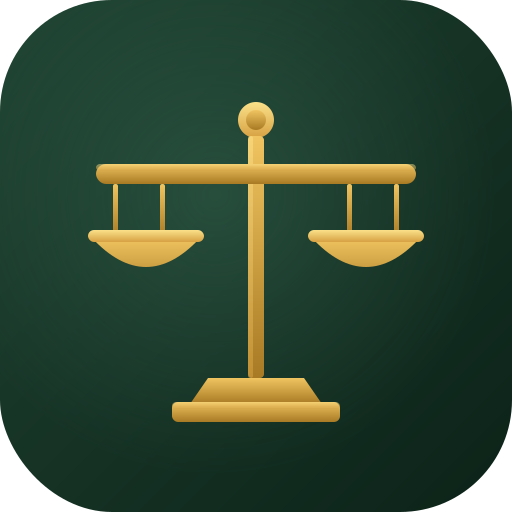
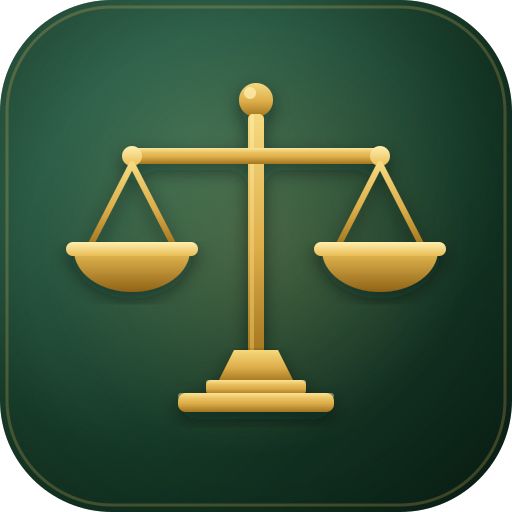
美化法律工具图标：重绘天平造型，增强金属质感与背景层次
- 挂链改为经典 V 形，秤盘加深为碗形，底座改为阶梯式，整体比例更协调
- 金色改为三段渐变增强金属感，梁端加装饰圆球
- 背景增加环境光、金色辉光与暗角，圆角版内侧加金色细边
- 新增 generate-icons.mjs 生成脚本，统一产出 SVG 与全部尺寸 PNG
- Service Worker 缓存升级到 v12，并补充缓存 favicon-16.png

Claude-Session: https://claude.ai/code/session_019QrFd9BkPKEDTeWd9aB32B

diff --git a/sw.js b/sw.js
@@ -1,5 +1,5 @@
 // Service Worker - 离线缓存
-const CACHE_NAME = 'xujia-legal-tools-v11';
+const CACHE_NAME = 'xujia-legal-tools-v12';
 const ASSETS = [
   './',
   './index.html',
@@ -18,7 +18,8 @@ const ASSETS = [
   './icon-192.png',
   './icon-512.png',
   './apple-touch-icon.png',
-  './favicon-32.png'
+  './favicon-32.png',
+  './favicon-16.png'
 ];
 
 // 安装：预缓存主页资源
